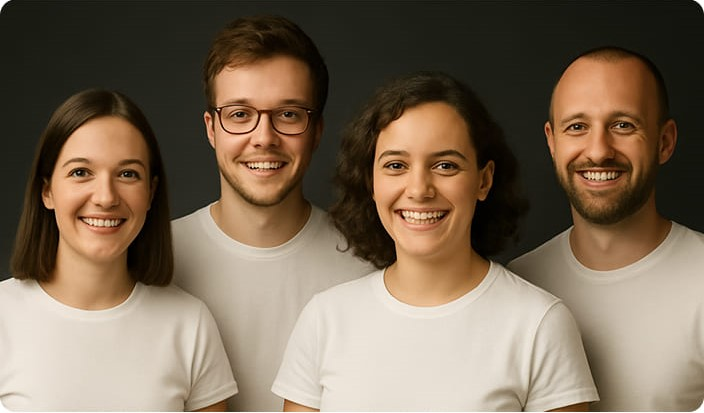
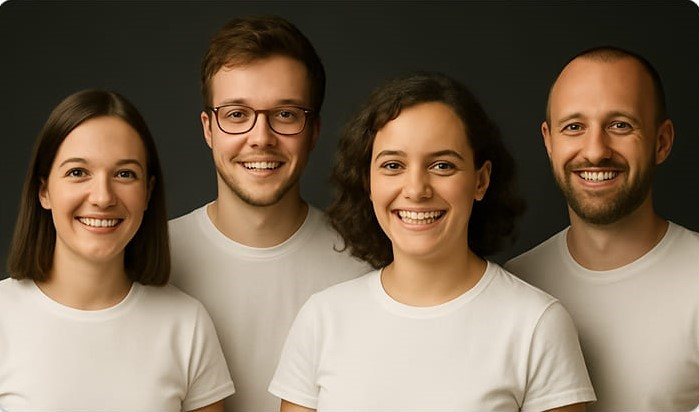
correct img 2

diff --git a/src/css/about-us.css b/src/css/about-us.css
@@ -19,7 +19,7 @@ body {
      display: flex;
      flex-direction: row;
      gap: 32px;
-        align-items: center;
+    align-items: center;
     }
 }
 
@@ -31,18 +31,21 @@ body {
     border-radius: 20px;
     overflow: hidden;   
     width: 100%;
+    max-width: 288px;
     border: 1px solid #000000;
     object-fit: cover;
 }
 
 @media (min-width: 768px) {
     .about-us-img-container img {
-        border-radius: 16px;        
+        border-radius: 16px; 
+        max-width: 704px;
     }
 }
 @media (min-width: 1440px) {
     .about-us-img-container img {
-        min-width: 640px;        
+        min-width: 640px; 
+        max-width: 100%;
     }
 }
 
